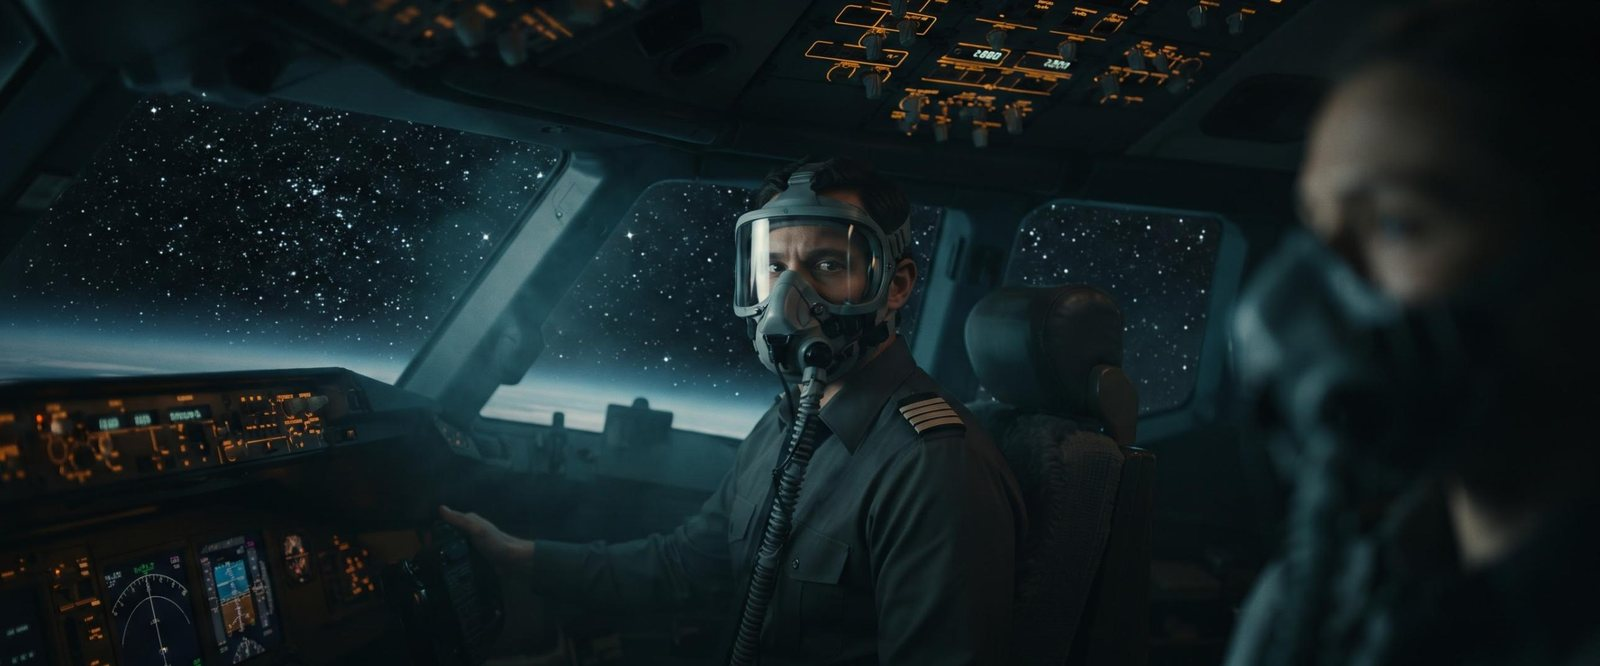
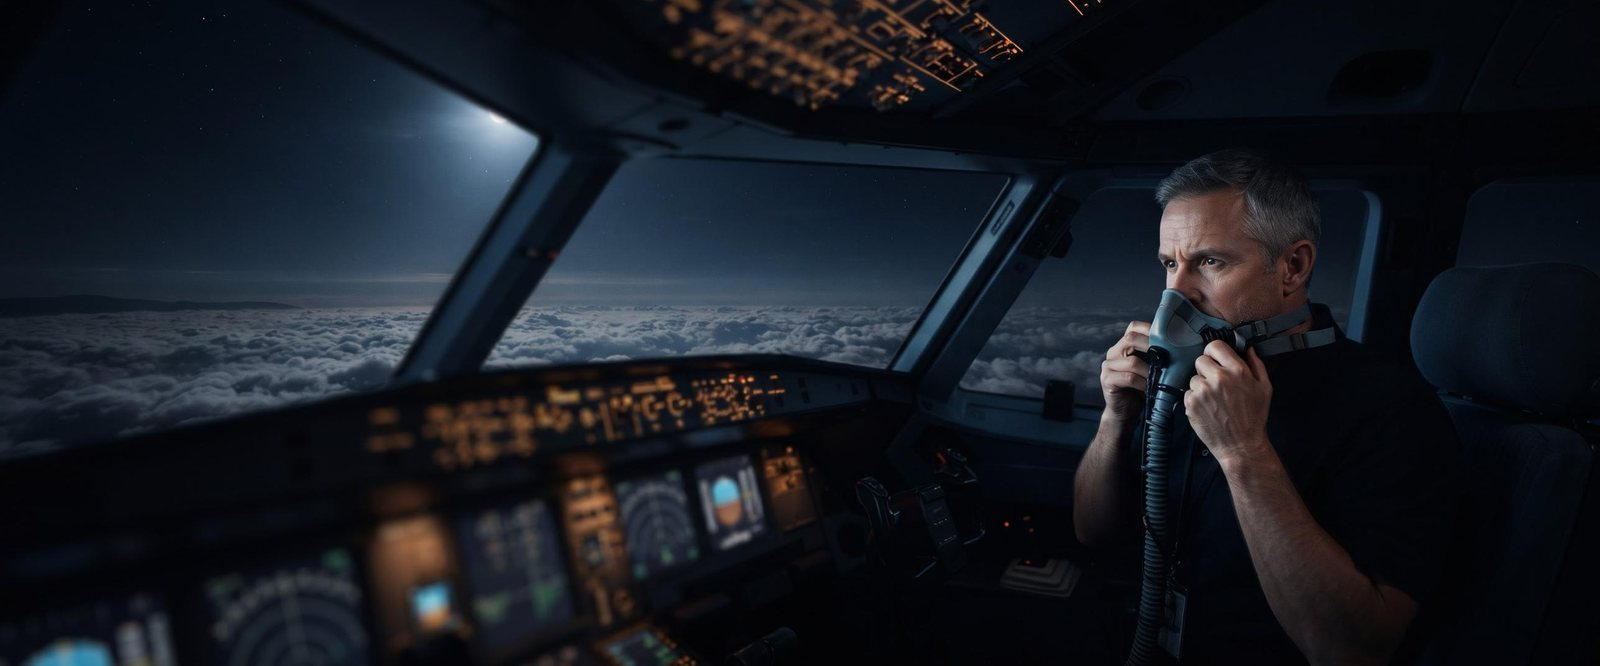
M1V5: foto do centro de operações e congelamento; capa civil do M1V2 (fis-04)
Claude-Session: https://claude.ai/code/session_01ACLZ5bSTjNcgBPEPpEpAMZ

diff --git a/src/data/capitulos/radiacao.ts b/src/data/capitulos/radiacao.ts
@@ -191,6 +191,7 @@ export const radiacao: Capitulo = {
           "Para o **passageiro** eventual, a dose é pequena. A ICRP recomenda **informar os passageiros** sobre a exposição e como estimá-la. Quem voa muito pode adotar um **nível de referência pessoal** e ajustar a frequência dos voos, e quem viaja a trabalho pode, caso a caso, ser tratado como trabalhador exposto.",
         ].join('\n\n'),
         recursos: [
+          { paragrafo: 1, figura: { imagem: require('@/assets/images/topicos/m1v5-4-operacoes.jpg'), legenda: 'No centro de operações, as rotas sobre o polo são as que mais somam dose; é ali que a escala e os alertas solares entram no planejamento.' } },
           {
             paragrafo: 2,
             tabela: {

diff --git a/docs/estrutura-completa.md b/docs/estrutura-completa.md
@@ -8,7 +8,7 @@
 - A proteção de CI identifica alterações; não substitui as permissões e regras de proteção de branch do GitHub. Uma autorização posterior explícita do autor será necessária para atualizar os registros congelados.
 - Novos voos e conteúdos fora de M1V1 podem continuar a ser desenvolvidos sem alterar estes trechos.
 
-## CONGELAMENTO EDITORIAL — M1V2, M1V3 (27/10/2026), M1V4 e M2V1 (29/10/2026)
+## CONGELAMENTO EDITORIAL — M1V2, M1V3 (27/10/2026), M1V4 e M2V1 (29/10/2026), M1V5 (30/10/2026)
 Mesmas regras acima; arquivos e fotos protegidos pelo mapa ARQUIVOS em `scripts/check-m1v1-frozen.cjs`.
 
 ## FONTES — padrão ANAC e FAA (29/10/2026)
